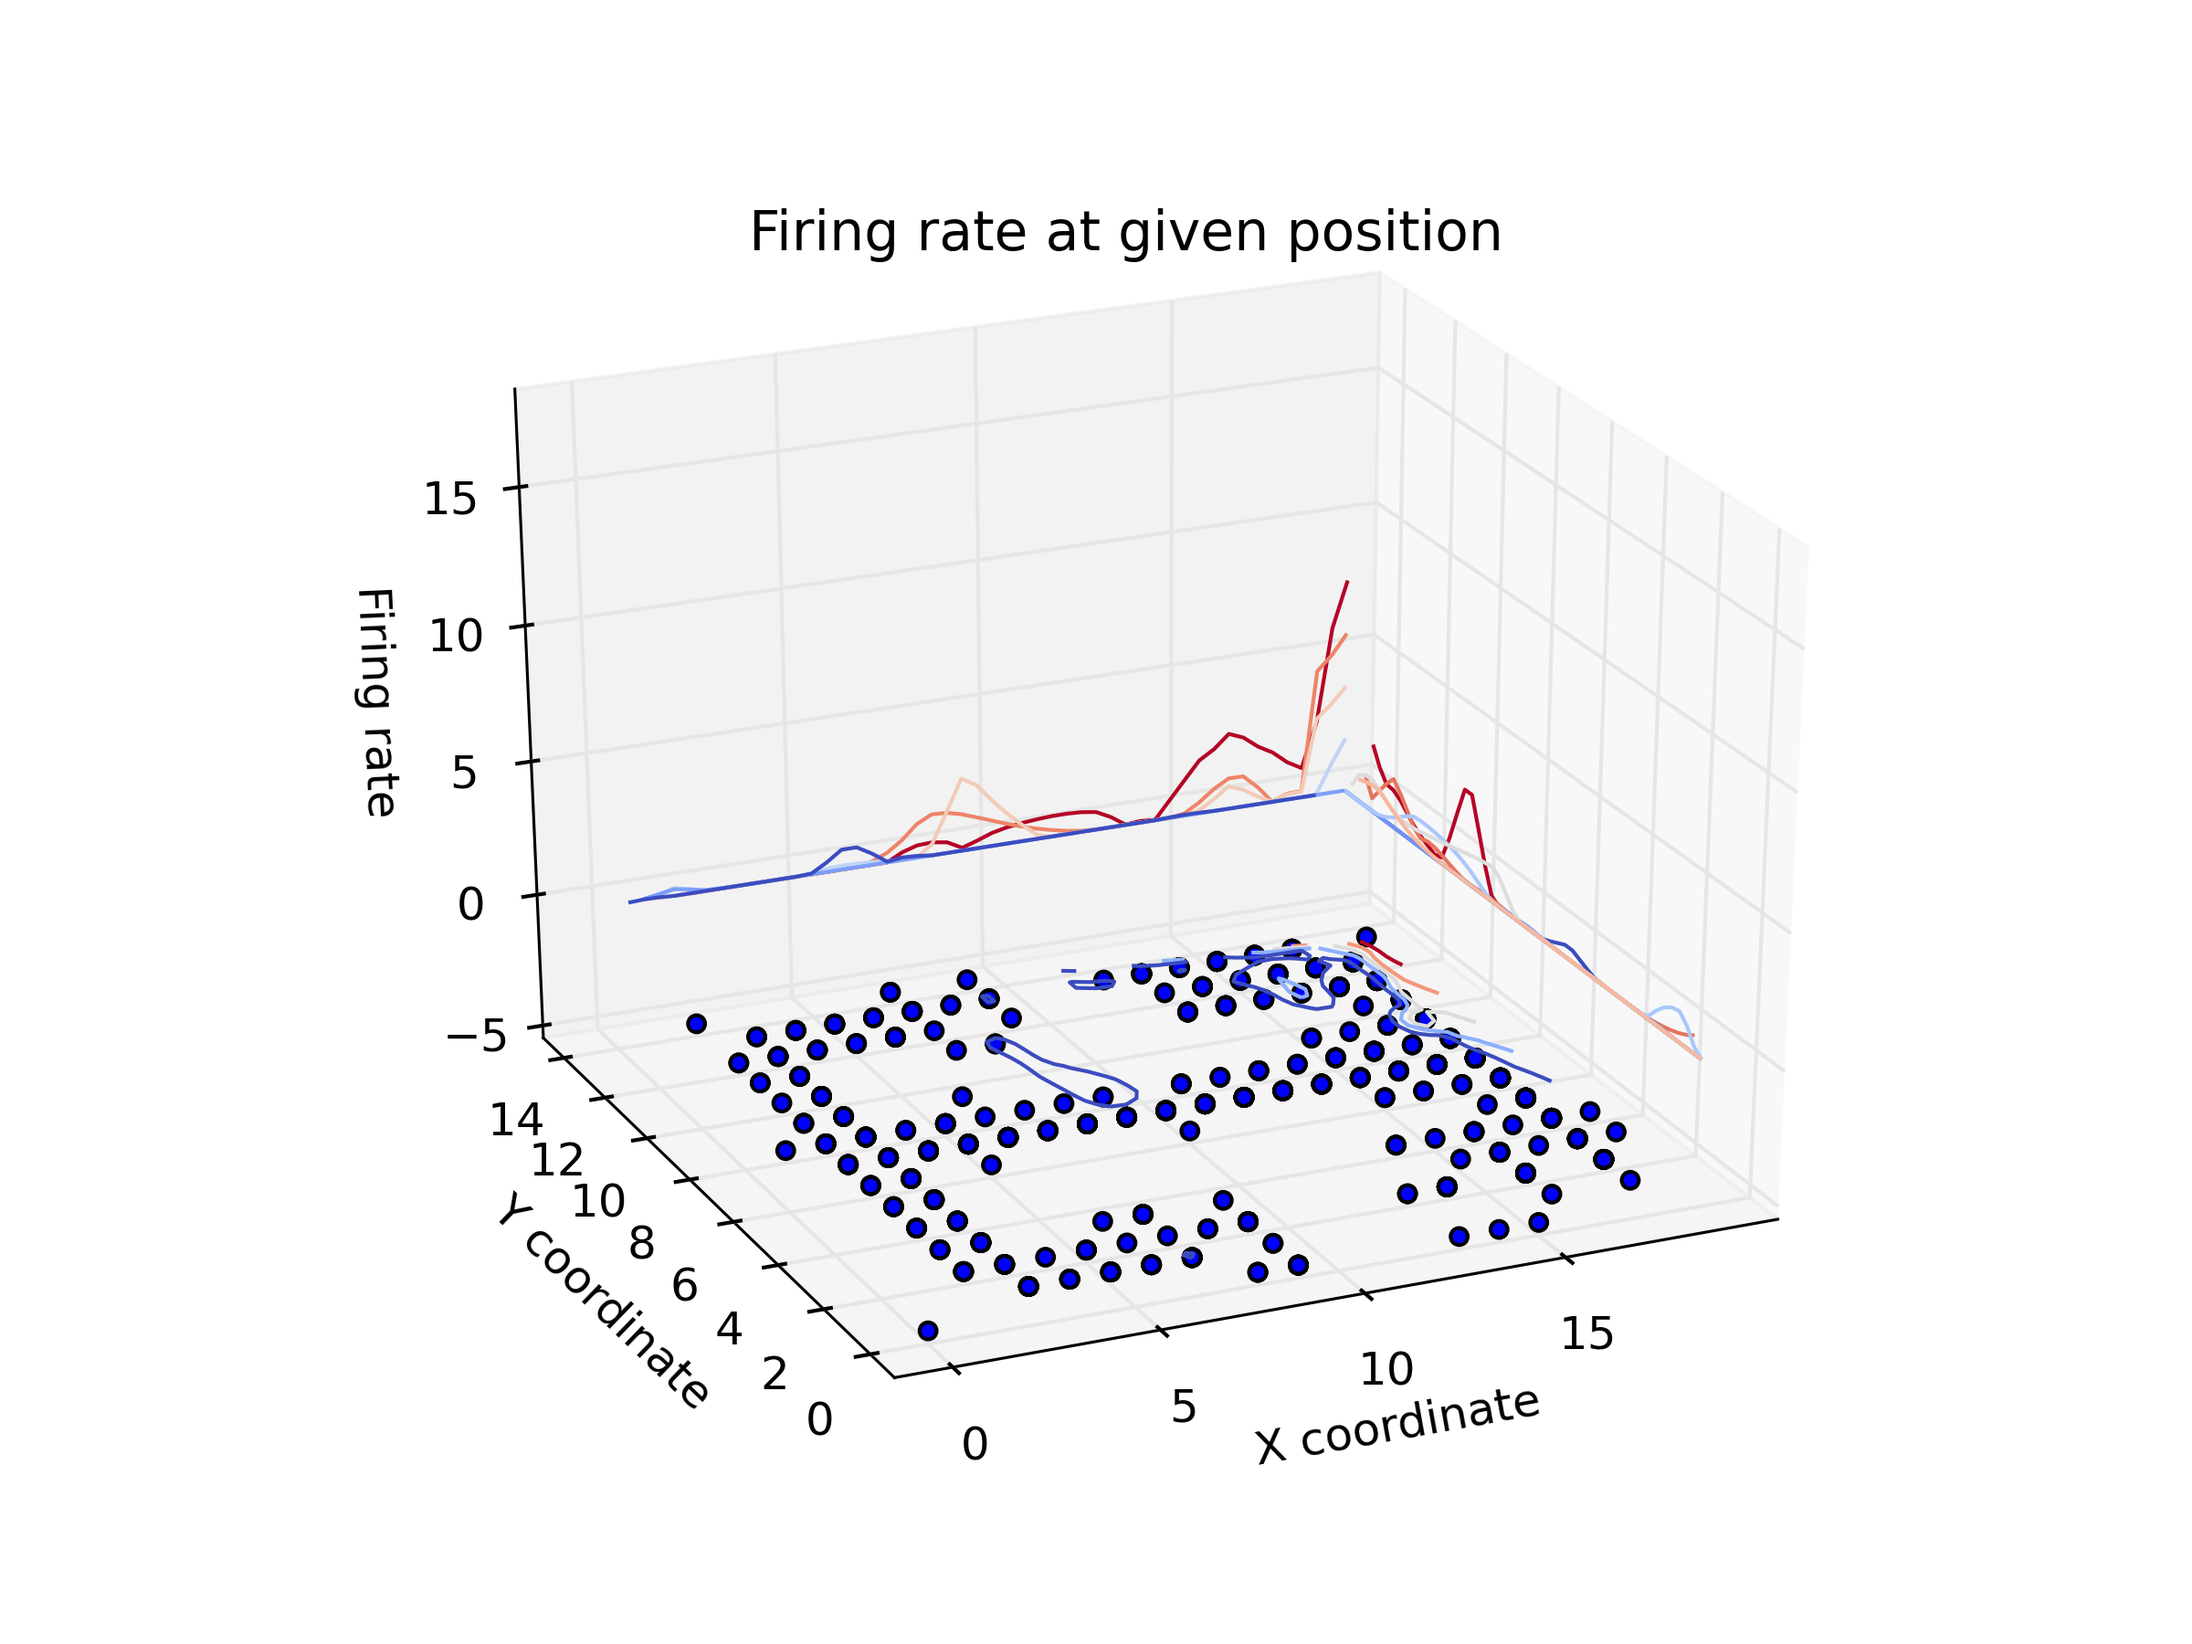
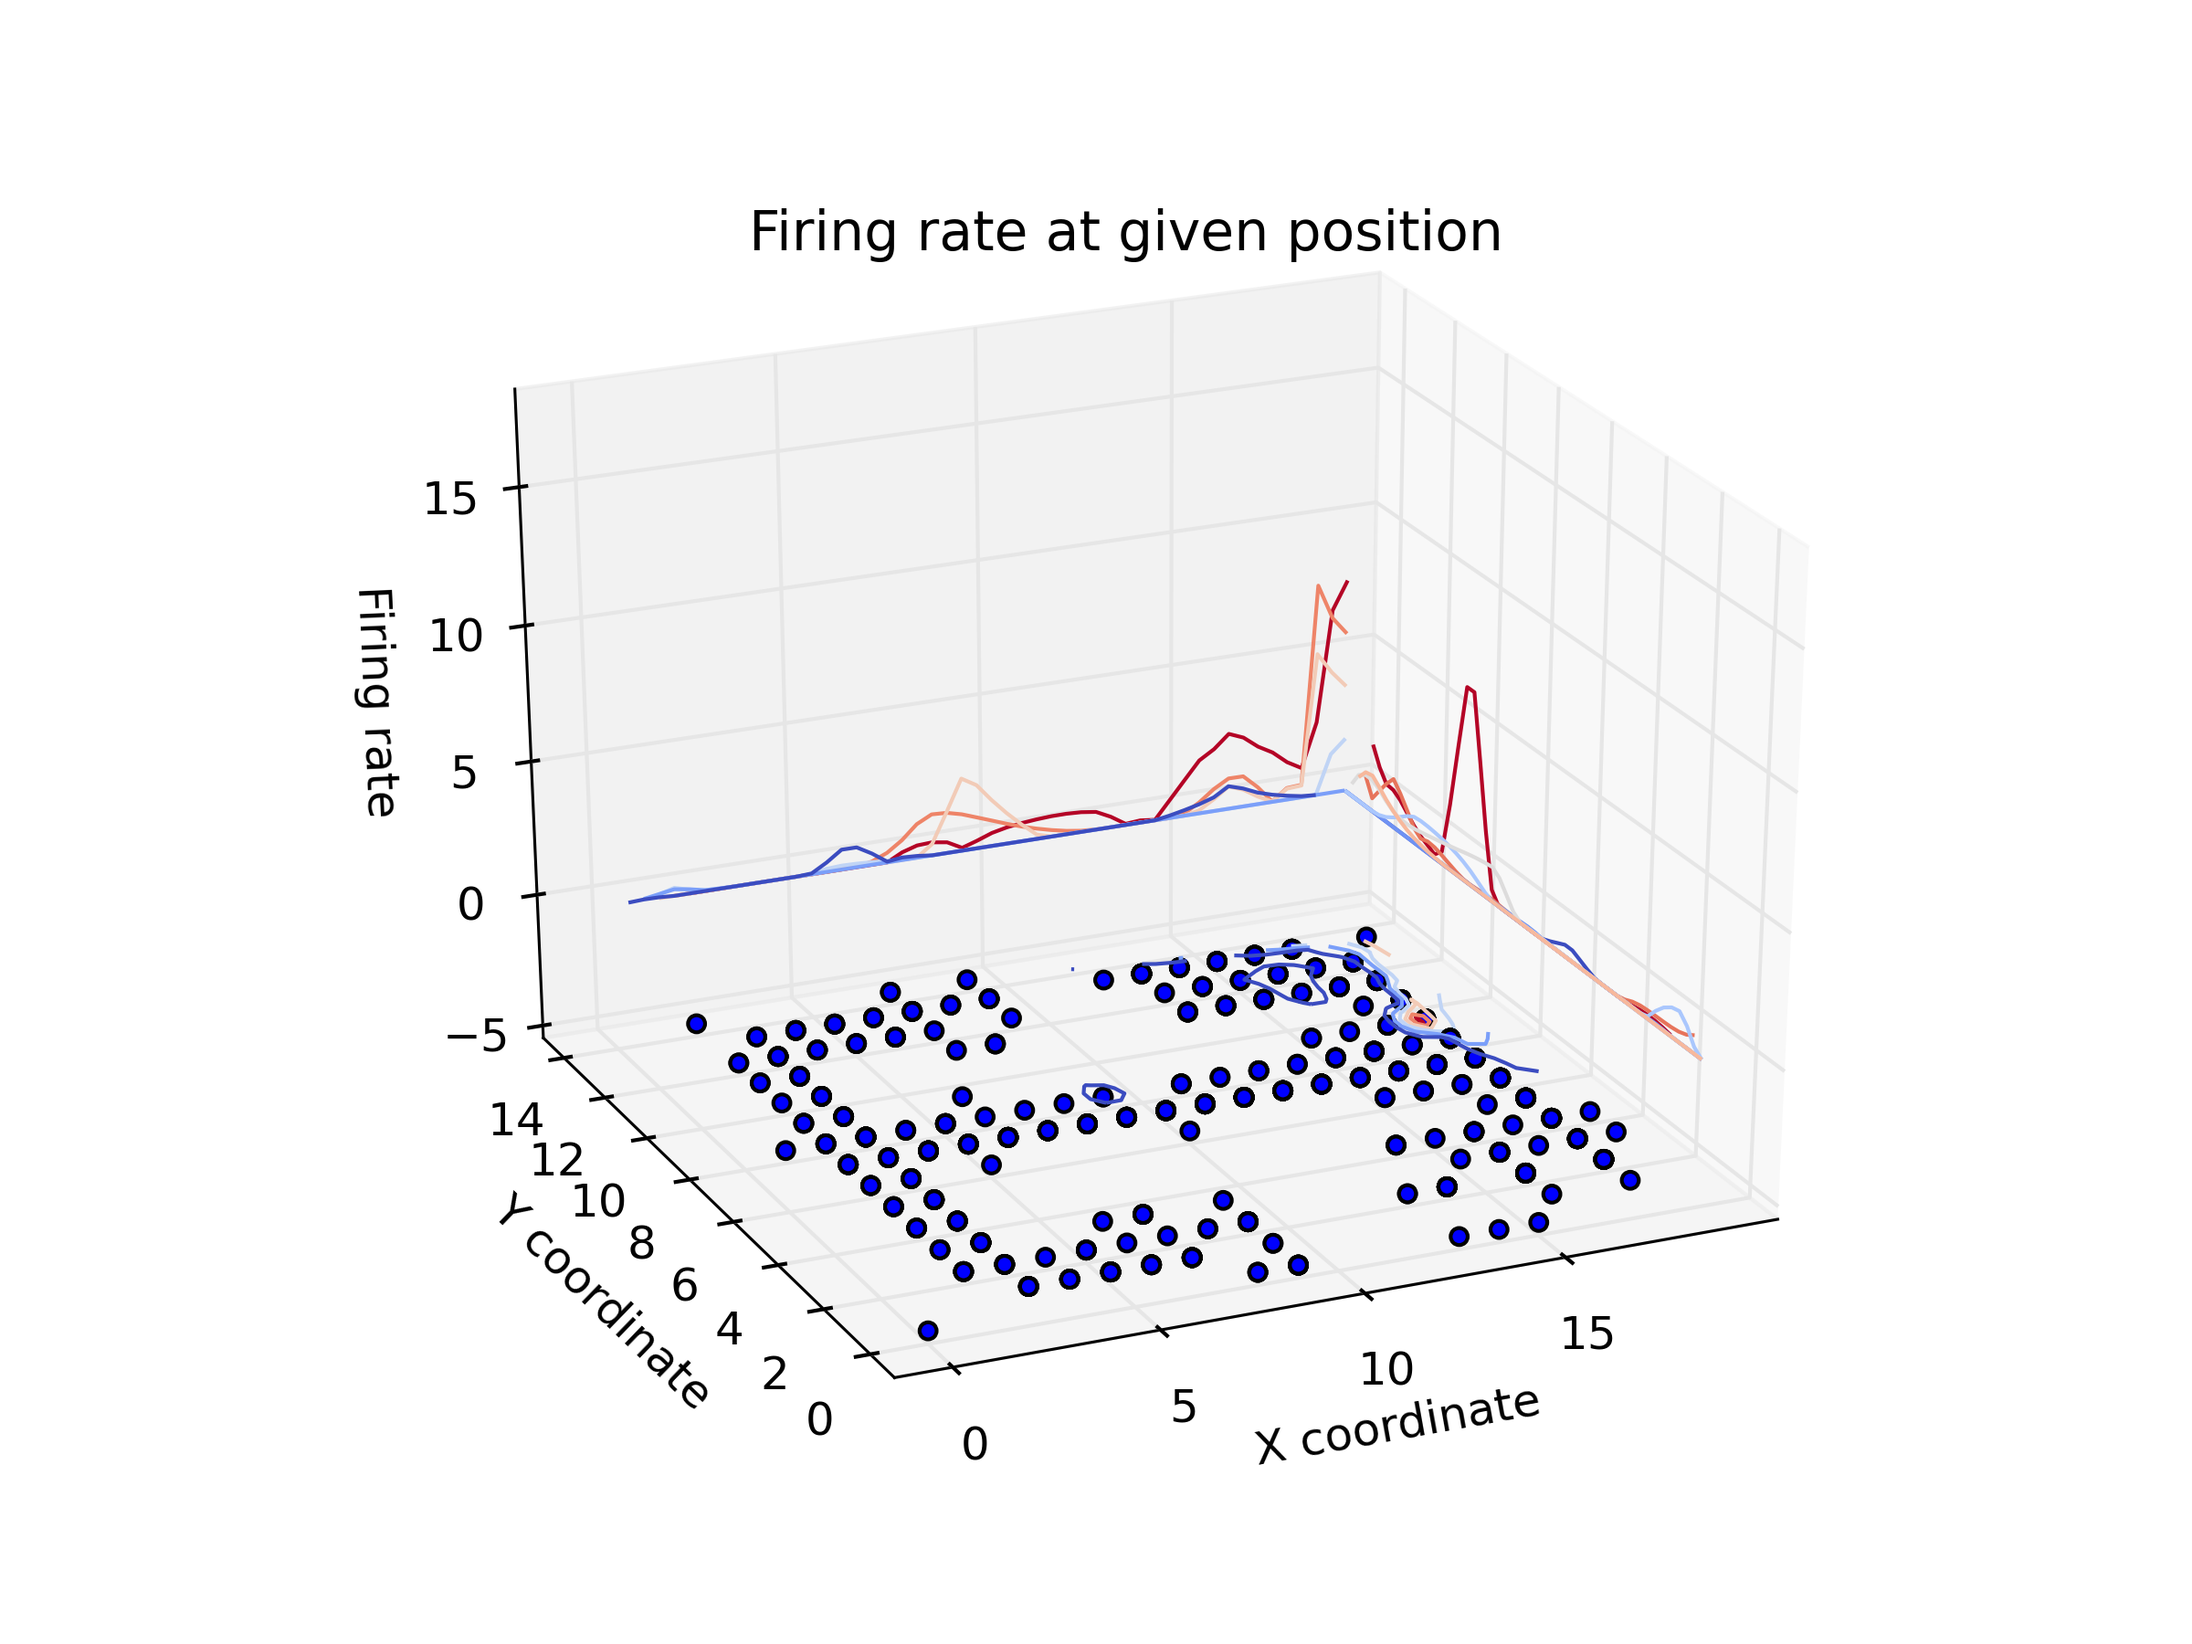
major changes

diff --git a/report/report.tex b/report/report.tex
@@ -16,6 +16,11 @@
 \usepackage{lipsum}
 \usepackage{amsmath}
 
+% for multi figures
+\usepackage{graphicx}
+\usepackage{caption}
+\usepackage{subcaption}
+
 % \usepackage{hyperref}
 % \usepackage{graphicx}
 % \usepackage{subfigure}
@@ -52,103 +57,98 @@
 \end{@twocolumnfalse}
 ] % \lipsum[1]~\\[0.4cm]
 
-\section*{\texttt{Part 1}}
-Simulation of neuron based on \emph{Integrate and Fire} model:
-$$ \tau_m \frac{dV}{dt} = E_L - V + R_m I_e $$
-with parameters:\\
-$\tau_m = 10 \text{ [ms]}$~,~$E_L = V_{reset} = -70 \text{ [mV]}$~,\\
-$V_{th} = -40 \text{ [mV]}$~,~$R_m = 10 \text{ [M$\Omega$]}$~,\\
-$I_e = 3.1 \text{ [nA]}$~,~$DT = 1 \text{ [ms]}$~.
-
+\section*{\texttt{Experiment design}}
+Conducted experiment concerned path finding in the `\texttt{H}' shaped maze by a rat. The construction was divided into 4 main points top-left(TL), bottom-left(BL), top-right(TR) and bottom-right(BR). TL and BL were start points and TR, BR were were destination points, where correct destination(awarded with snack) was placed at the same height(top or bottom) as the chosen start point: \emph{T}L---\emph{T}R and \emph{B}L---\emph{B}R.\\
+\let\thefootnote\relax\footnote{Theta Rhythms Coordinate\\Hippocampal–--Prefrontal Interactions\\in a Spatial Memory Task\\Matthew W. Jones, Matthew A. Wilson}
 \begin{figure}[htbp]
 \centering
 \includegraphics[width=0.5\textwidth]{figure1.png}
 % \begin{tiny}
-\caption{Simulation of \emph{Spiking Integrate and Fire} neuron model.\label{fig:part1}}
+\caption{Discretized maze.\label{fig:maze}}
 % \end{tiny}
 \vspace{0.2cm}
 \end{figure}
 
+We can divide the experiment into a number of stages:
+\begin{description}
+\item{\emph{Stage 1}} \hfill\\
+Rat begin in TL or BL and run toward left junction. The movable barrier is placed there to direct the animal into the central arm.
+\item{\emph{Stage 2}} \hfill\\
+The rat gets to the right junction---decision point---where it choses left or right turn.
+\item{\emph{Stage 3}} \hfill\\
+Only the choice which leads to the point at the same height as the starting position is awarded.
+\item{\emph{Stage 4}} \hfill\\
+After reaching TR or BR the rat returns to the right junction where another movable barrier is placed to direct the rat into central arm.
+\item{\emph{Stage 5}} \hfill\\
+The rat reaches left junction.
+\item{\emph{Stage 6}} \hfill\\
+The animal is directed to TL or BL randomly by moving barrier.
+\end{description}
 
-\section*{\texttt{Part 2}}
-\subsection*{\texttt{Part 2: a)}}
-\textbf{\large Finding attractor}\\
-To analytically compute minimum current $I_e$ required by neuron to produce a spike we set derivative to 0.\\
-$0=E_L-V^{\star} +R_mI_e$,\\
-$V^{\star} = E_L + R_mI_e$,\\
-and we need: $V^{\star} > V_{th}$ for neuron to fire,\\
-$E_L+R_mI_e > V_{th}$ hence,\\
-$I_e > \frac{V_{th} - E_L}{R_m}$\\
-With our parameters:\\
-$I_e > \frac{-40*10^{-3} - (-70)*10^{-3}}{10*10^6}$ hence:\\
-$I_e > 3 * 10^{-9}  \text{ [A]} = 3  \text{ [nA]}$.\\
 
-\subsection*{\texttt{Part 2: b)}}
-Simulating neuron with $I_e = 2.9 * 10^{-9}  \text{ [A]}$ leads to behavior shown below.\\
+\section*{\texttt{Decision making}}
+It is considered that Stages 1 \& 2 requires \emph{spatial working-memory}---the rat memorized starting position. By Stage 3 the decision which direction to follow on the right junction should be made. Stages 4--6 did not require working-memory as all turns were forced with barriers.\\
+
+\section*{\texttt{Analysis}}
+I performed analysis of firing rate based on rat's position for all 4 neurons. To smooth-out the movement I first performed discretization(see figure~\ref{fig:maze}) of X-Y space and match firing times to particular position on the plane.\\
+
+Figure~\ref{fig:FiringPosition_ALL} shows firing rate after each move for all 4 neurons. Sub-plot~\ref{fig:FiringPosition_N1} contains characteristic regular spikes---possibly place at the maze where a rat makes the call to its memory.\\
+Figure~\ref{fig:FiringPosition_N2} is characterized by a high activity at the beginning of the experiment---while new places are visited---and average number of spikes later on---when the parts of maze are re-visited. I guess that it corresponds to learning in the new environment; once the rat has adjusted to surrounding the neural activity lowers.\\
+Neuron~3(graph~\ref{fig:FiringPosition_N3}) behaves similarly to neuron~2(figure~\ref{fig:FiringPosition_N2})---it shows similar spacial learning behavior.\\
+Finally, graph~\ref{fig:FiringPosition_N4} presenting neuron~4, show high activity at the beginning and just after the midpoint. I think that it is caused by change in the maze setting---like different starting position.\\
 
 \begin{figure}[htbp]
-\centering
-\includegraphics[width=0.5\textwidth]{figure2.png}
-% \begin{tiny}
-\caption{Simulation of neuron with current $I_e$ being to small to cause spiking.\label{fig:part2b}}
-% \end{tiny}
-\vspace{0.2cm}
+  \begin{subfigure}{.49\linewidth}\centering
+    \includegraphics[width=1.1\textwidth]{figure2.png}
+    \caption{Neuron 1\label{fig:FiringPosition_N1}}
+  \end{subfigure}
+  \begin{subfigure}{.49\linewidth}\centering
+    \includegraphics[width=1.1\textwidth]{figure3.png}
+    \caption{Neuron 2\label{fig:FiringPosition_N2}}
+  \end{subfigure}\\[1ex]
+
+    \begin{subfigure}{.49\linewidth}\centering
+    \includegraphics[width=1.1\textwidth]{figure3.png}
+    \caption{Neuron 3\label{fig:FiringPosition_N3}}
+  \end{subfigure}
+  \begin{subfigure}{.49\linewidth}\centering
+    \includegraphics[width=1.1\textwidth]{figure4.png}
+    \caption{Neuron 4\label{fig:FiringPosition_N4}}
+  \end{subfigure}
+
+  \caption{Neurons firing rates based on position change of a rat.\label{fig:FiringPosition_ALL}}
 \end{figure}
 
-\section*{\texttt{Part 3}}
-Simulation of neuron for currents ranging from $2 \text{[nA]}$ to $5 \text{[nA]}$ in increments of $0.1 \text{[nA]}$ with count of number of spikes produced for each step.\\
-\begin{figure}[phtb]
-\centering
-\includegraphics[width=0.47\textwidth]{figure3.png}
-% \begin{tiny}
-\caption{Firing rate of neuron for given above range of currents.\label{fig:part3}}
-% \end{tiny}
-\vspace{0.2cm}
-\end{figure}
+After projecting neurons activity on the maze plot we can make more informative guesses regarding the role of each neuron and partially deduce its functionality.\\
 
-\section*{\texttt{Part 4}}
-\textbf{\large Differences between \emph{excitatory} and \emph{inhibitory} synapses}
-
-\subsection*{\texttt{Part 4: a)}}
-In first case where synapses are \emph{excitatory} the spikes tend to synchronise. The neuron with excitatory synapse causes other neuron to be more likely to fire at the same time. Both neurons synchronise because they are interconnected so when first one fires it causes that the second one is more likely to fire and the other way around.\\
+Figure~\ref{fig:3d_n1} can be interpreted as use of memory(first neuron). Once rat reaches right junction and is forced to make a turn it makes a call to memory to choose between TR and BR to get the reward.\\
 
 \begin{figure}[htbp]
-\centering
-\includegraphics[width=0.5\textwidth]{figure4.png}
-% \begin{tiny}
-\caption{Simulation of two interconnected neurons with excitatory synapses.\label{fig:part4a}}
-% \end{tiny}
-\vspace{0.2cm}
+  \begin{subfigure}{.99\linewidth}\centering
+    \includegraphics[width=1.1\textwidth]{figure6_a.png}
+    \caption{\label{fig:3d_n1_a}}
+  \end{subfigure}\\[1ex]
+  \begin{subfigure}{.99\linewidth}\centering
+    \includegraphics[width=1.1\textwidth]{figure6_b.png}
+    \caption{\label{fig:3d_n1_b}}
+  \end{subfigure}
+
+  \caption{Neuron 1---spatial activity.\label{fig:3d_n1}}
 \end{figure}
 
-\subsection*{\texttt{Part 4: b)}}
-On contrary, with both synapses being \emph{inhibitory} the spiking tends to diverge. The inhibitory synapse causes connected neuron to be less likely to fire at the same time. Spikes of both neurons diverge as firing of first one causes the second one to be less likely to fire at the same time so at some point the time between firing of one and the other will converge to maximal possible value(spikes maximally distant of each other).
+Neuron 2 which activity is plotted in the figure~\ref{fig:3d_n2}.\\
 
 \begin{figure}[htbp]
-\centering
-\includegraphics[width=0.5\textwidth]{figure5.png}
-% \begin{tiny}
-\caption{Simulation of two interconnected neurons with inhibitory synapses.\label{fig:part4b}}
-% \end{tiny}
-\vspace{0.2cm}
-\end{figure}
+  \begin{subfigure}{.99\linewidth}\centering
+    \includegraphics[width=1.1\textwidth]{figure7_a.png}
+    \caption{\label{fig:3d_n2_a}}
+  \end{subfigure}\\[1ex]
+  \begin{subfigure}{.99\linewidth}\centering
+    \includegraphics[width=1.1\textwidth]{figure7_b.png}
+    \caption{\label{fig:3d_n2_b}}
+  \end{subfigure}
 
-
-\begin{figure}[htbp]
-\centering
-\includegraphics[width=0.5\textwidth]{figure6_a.png}
-% \begin{tiny}
-\caption{Simulation of two interconnected neurons with inhibitory synapses.\label{fig:part4b}}
-% \end{tiny}
-\vspace{0.2cm}
-\end{figure}
-\begin{figure}[htbp]
-\centering
-\includegraphics[width=0.5\textwidth]{figure6_b.png}
-% \begin{tiny}
-\caption{Simulation of two interconnected neurons with inhibitory synapses.\label{fig:part4b}}
-% \end{tiny}
-\vspace{0.2cm}
+  \caption{Neuron 2---spatial activity.\label{fig:3d_n2}}
 \end{figure}
 
 

diff --git a/analyze.py b/analyze.py
@@ -13,6 +13,8 @@ import matplotlib.pyplot as plt
 from matplotlib.mlab import griddata
 import numpy as np
 
+import time
+
 
 # Globals definitions
 Resolution = 15
@@ -46,6 +48,24 @@ def detrend( Visited ) :
 	for i in range(1,len(Visited)) :
 		Vdt.append(Visited[i] - Visited[i-1])
 	return Vdt
+
+# check for duplicates
+def unify(X, Y, Z) :
+	A, B, C = [], [], []
+	for x,y,z in zip(X, Y, Z) :
+		if x in A and y in B :
+			if A.index(x) == B.index(y) :
+				C[A.index(x)] += z
+			else :
+				A.append(x)
+				B.append(y)
+				C.append(z)
+		else :
+			A.append(x)
+			B.append(y)
+			C.append(z)
+	return (A, B, C)
+
 
 # Load data
 #  for loading neuron 1 - 4 and time
@@ -151,15 +171,21 @@ for i, (x, y) in enumerate( zip(D[0], D[1]) ) :
 
 
 # print PositionChange
+plt.ion()
 plt.figure(1)
 plt.xlabel("X coordinate")
 plt.ylabel("X coordinate")
 plt.title('Discretized maze')
 plt.axis([ -2, 22, -2, 16 ])
-for x in PositionChange :
+for i, x in enumerate(PositionChange) :
 	if x ==-1 :
 		continue
 	plt.plot(x[0], x[1], 'ko')
+	# plt.draw()
+	# time.sleep(0.1)
+	# if i%50 == 0 :
+		# plt.clf()
+		# plt.axis([ -2, 22, -2, 16 ])
 
 plt.savefig("figure1.png", dpi=300, pad_inches=0.2)
 plt.show()
@@ -185,6 +211,8 @@ for dd in range(6,10) :
 	# create a plot
 	hf = plt.figure(dd)
 	ha = hf.add_subplot(111, projection='3d')
+
+	test3d[dd-6][0], test3d[dd-6][1], test3d[dd-6][2] = unify( test3d[dd-6][0], test3d[dd-6][1], test3d[dd-6][2] )
 
 	# transform (X,Y,Z) to mesh grid
 	xi = np.linspace(min(test3d[dd-6][0]), max(test3d[dd-6][0]))
